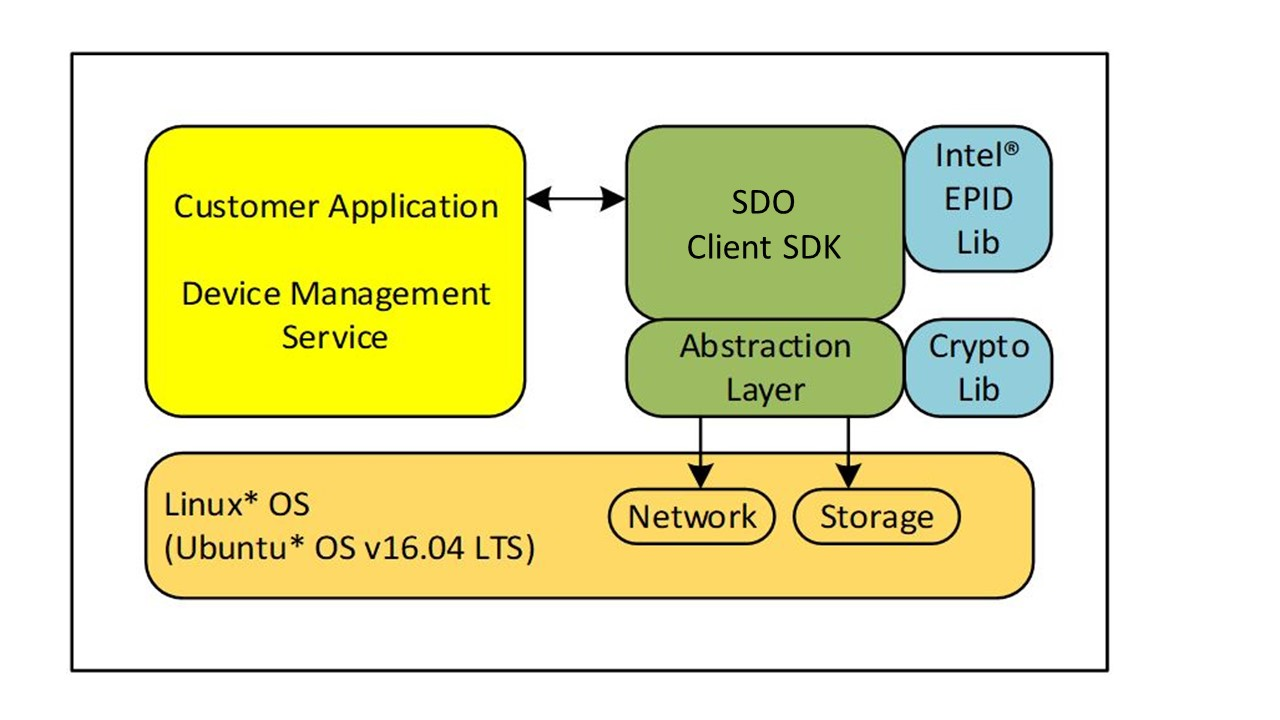
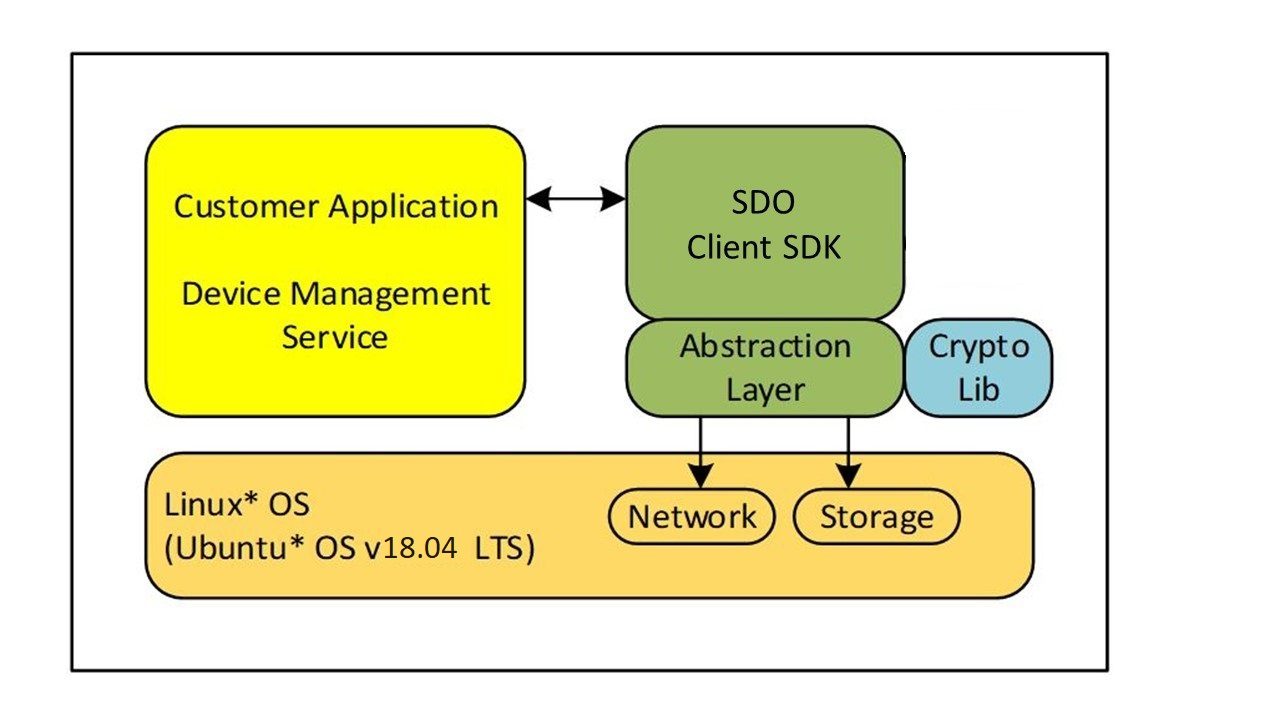
fix: correcting docs for 1.9 release (#39)

diff --git a/docs/client-sdk/client-sdk-reference-guide.md b/docs/client-sdk/client-sdk-reference-guide.md
@@ -6,7 +6,6 @@ In addition, the Client SDK is ported to the following Arm* platforms:
 1.	Nucleo* development board (NUCLEO-F429ZI) running STM32F429ZI ARM Cortex*-M4 MCU over Mbed* OS.  
 2.	NUCLEO-F767ZI development board running STM32F767ZI Arm* Cortex*-M7 MCU over Mbed* OS.  
 3.	WaRP7 development board running i.MX 7 series Arm Cortex-A7 MPU over Mbed Linux.  
-4.	Raspberry Pi* development board running Arm Cortex-A53 MPU over Raspbian OS.  
 
 The Client SDK is a reference implementation that can be used to onboard a device and then give control to the device application or IOT Platform Service. “Onboarding” means the process by which a device establishes its first trusted connection with an IOT Platform Service.  
 
@@ -51,7 +50,7 @@ It is assumed that the machine on which the SDK runs has access to the network. 
 The SDK will initiate connections to the following external ports, which must not be blocked by a firewall:
 
 -	8039: The SDK connects to the SDO Manufacturer Server on this port.
--	8041: The SDK connects to the SDO Rendezvous Server on this port.
+-	8040: The SDK connects to the SDO Rendezvous Server on this port.
 -	8042: The SDK connects to the SDO Owner Server on this port.
 
 For details on the Manufacturer Server, Rendezvous Server, and Owner Server refer to the Reference Documents.
@@ -121,13 +120,13 @@ If an error occurs after a module has been initialized, during the remainder of 
 The intent of PSI is described in the SDO Protocol specification. Basically, PSI provides the Owner Server with a way to inform a module what to expect during the next two service info sequences (such as, DSI and OSI). The module should use this information to prepare itself for the subsequent exchanges.
 
 PSI is an ASCII string containing one or more 2-tuple of the format 
-`[module-name][module-data]`. The SDK parses the PSI string and locates the module specified by module-name. If this module is not found, the SDK ignores it and continues with the next PSI touple in the string.
+`[module-name][module-data]`. The SDK parses the PSI string and locates the module specified by module-name. If this module is not found, the SDK ignores it and continues with the next PSI tuple in the string.
 
 The `[module-data]` is a key-value pair where the value is optional (depending on the key) and is encoded as `key~value` (the ‘~’ char is the delimiter). The SDK will parse this substring to extract the key and value.
 
-If the module is found, the SDK invokes the modules callback function with type `SDO_SI_SET_PSI` and passes the module-data to it in the sv parameter. The key is contained in `sv.key` and the value if present, is in `sv.value`. If no value is present, the `sv.value` will be `NULL`. The module is expected to process the key-value and return either success or failure. A failure response will cause the entire onboarding sequence to fail and the Application must retry it at a later time. In most cases the Owner Server will use PSI to allow the module to perform basic initialization and setup for the following DSI and OSI rounds in terms of allocating resources, and others.
+If the module is found, the SDK invokes the modules callback function with type `SDO_SI_SET_PSI` and passes the module-data to it in the sv parameter. The key is contained in `sv.key` and the value if present, is in `sv.value`. If no value is present, the `sv.value` will be `NULL`. The module is expected to process the key-value and return either success or failure. A failure response will cause the entire onboarding sequence to fail and the Application must retry it later. In most cases the Owner Server will use PSI to allow the module to perform basic initialization and setup for the following DSI and OSI rounds in terms of allocating resources, and others.
 
-From a format standpoint, both key and value are `NULL` terminated ASCII strings. The value may optionally contain base64 encoded binary data. A PSI string could contain multiple 2-touples with the same module-name. In this case, the SDK will invoke the same module multiple times, once for each occurrence of module-name in the PSI string. The corresponding key-value pairs will be passed in each of these invocations. The `count` parameter will act as an ‘index’ starting at 0 for the first invocation and incremented for subsequent invocations.
+From a format standpoint, both key and value are `NULL` terminated ASCII strings. The value may optionally contain base64 encoded binary data. A PSI string could contain multiple 2-tuples with the same module-name. In this case, the SDK will invoke the same module multiple times, once for each occurrence of module-name in the PSI string. The corresponding key-value pairs will be passed in each of these invocations. The `count` parameter will act as an ‘index’ starting at 0 for the first invocation and incremented for subsequent invocations.
 
 !!! note
 	The PSI is considered the module configuration data and is independent of the DSI (see next section), which is the device information. The number of PSI elements is hence decoupled from the number of DSI elements. If the module wishes to retain either the key of value parameters for later use, it must make a local copy of the contents. The pointers passed during the invocation will be invalid after the callback returns to the SDK.
@@ -140,11 +139,11 @@ DSI follows PSI. The module needs to determine in advance how many DSI key-value
 
 On completing the PSI round, the SDK queries each registered module for the number of DSI rounds it requires. This is done by invoking the modules callback with the `SDO_SI_GET_DSI_COUNT` type. The module is expected to return the number of DSI key-value pairs it requires in the `count` callback parameter.
 
-When the DSI round for a module begins, the SDK will call the modules callback with the `SDO_SI_GET_DSI` type. The *`count`* parameter will indicate the ‘index’ of the DSI key-value pair being requested by the SDK. The SDK uploads each key-value pair to the Owner Server in the same order. The module may choose to ignore the ‘index’ sent by the SDK but it is advisable for the module to return key-value data based on this index. This callback will be invoked as many times as specified by the module by the prior `SDO_SI_GET_DSI_COUNT` return value (the ‘index’ value will vary from 0 to `count-1`).
+When the DSI round for a module begins, the SDK will call the modules callback with the `SDO_SI_GET_DSI` type. The *`count`* parameter will indicate the ‘index’ of the DSI key-value pair being requested by the SDK. The SDK uploads each key-value pair to the Owner Server in the same order. The module may choose to ignore the ‘index’ sent by the SDK, but it is advisable for the module to return key-value data based on this index. This callback will be invoked as many times as specified by the module by the prior `SDO_SI_GET_DSI_COUNT` return value (the ‘index’ value will vary from 0 to `count-1`).
 
-Key-values are returned in the `sv.key` and `sv.value` parameter fields. The `sv.key` must strictly be an `NULL` terminated ASCII string. The `sv.value` is also a `NULL` terminated ASCII string but could also be a Base64 encoded binary value. It is assumed that the Owner Server knows how to interpret a particular key-value from a particular module. The module must include Base64 encoding capabilities if required.
+Key-values are returned in the `sv.key` and `sv.value` parameter fields. The `sv.key` must strictly be an `NULL` terminated ASCII string. The `sv.value` is also a `NULL` terminated ASCII string but could also be a Base64 encoded binary value. It is assumed that the Owner Server knows how to interpret a particular key-value from a module. The module must include Base64 encoding capabilities if required.
 
-The very first key-value returned by a module (‘index’ zero) must be an activation value indicating whether the module is active or not. The key value must be `“active”` and the value must be `“1”` if the module is active or `“0”` if the module is not active. If the module is not active, the Owner Server will not send and DSI messages to the module. This requires each module to have at least one DSI – that is, the count value returned for the `SDO_SI_GET_DSI_COUNT` callback type must be at least `1.` See the SDO Protocol Specification for more information on module activation and deactivation.
+The very first key-value returned by a module (‘index’ zero) must be an activation value indicating whether the module is active or not. The key value must be `“active”`, and the value must be `“1”` if the module is active or `“0”` if the module is not active. If the module is not active, the Owner Server will not send and DSI messages to the module. This requires each module to have at least one DSI – that is, the count value returned for the `SDO_SI_GET_DSI_COUNT` callback type must be at least `1.` See the SDO Protocol Specification for more information on module activation and deactivation.
 
 Note that DSI is one way – from device to Owner Server. The Owner Server cannot respond to any DSI message during this phase. It can however respond to a prior DSI message in the next, OSI phase.
 
@@ -153,7 +152,7 @@ OSI follows DSI. Unlike DSI, neither the SDK nor the module can determine in adv
 
 Received key-values are passed to the module in the `sv.key` and `sv.value` callback parameter fields. The `sv.key` must strictly be an `NULL` terminated ASCII string. The `sv.value` is also a NULL terminated ASCII string but could also be a Base64 encoded binary value. It is assumed that the module knows how to interpret the value for a particular key based on the key name. In addition to the sv parameter, the SDK will pass an ‘index’ of the OSI in the `count` parameter. The ‘index’ begins at 0 and increments for each OSI key-value pair received for the module.
 
-Corresponding to the activation message in DSI, the Owner Server could send a deactivation message to a module if it is not planning to use the module. The message will have a key of `“active”` and value of `“0”`. On receiving this message, a module may free allocated resources and effectively shutdown from an SDO perspective. Unlike the activation message, this message is optional and will only be sent if the Owner Server is not going to use the module. A module must expect to remain active unless it explicitly receives a deactivation message or it already indicated that is not active in the earlier DSI stage. See the SDO Protocol Specification for more information on module activation and deactivation.
+Corresponding to the activation message in DSI, the Owner Server could send a deactivation message to a module if it is not planning to use the module. The message will have a key of `“active”` and value of `“0”`. On receiving this message, a module may free allocated resources and effectively shutdown from an SDO perspective. Unlike the activation message, this message is optional and will only be sent if the Owner Server is not going to use the module. A module must expect to remain active unless it explicitly receives a deactivation message, or it already indicated that is not active in the earlier DSI stage. See the SDO Protocol Specification for more information on module activation and deactivation.
 
 If a module receives an OSI when it is in the deactivated state, it should return a status of `SDO SI_CONTENT_ERROR` indicating that the received element was not expected.
 The module is expected to process the key-value pair and return a result indicating if the operation was successful or failed. The module may return `SDO_SI_CONTENT_ERROR` or `SDO_SI_INTERNAL_ERROR` to differentiate between invalid value contents or a module run-time error. This information is reported to the Owner Server. The module must return `SDO_SI_SUCCESS` on successful completion.
@@ -166,7 +165,7 @@ When all service information rounds of all modules have completed successfully, 
 The SDK will not call into the module after this. The SDK will ignore the return value of this callback since no further failure is expected at this point.
 
 #### Module Errors
-If an error occurs during the service information phase, the TO2 protocol is considered to have failed and will be aborted. The Application will need to retry onboarding at a later time. A failure could occur for multiple reasons including failure of device/server interaction, failure of signature or hash verification, malformed messages and also if a module returns a failure while processing a PSI, DSI, or OSI command/request.
+If an error occurs during the service information phase, the TO2 protocol is considered to have failed and will be aborted. The Application will need to retry onboarding later. A failure could occur for multiple reasons including failure of device/server interaction, failure of signature or hash verification, malformed messages and if a module returns a failure while processing a PSI, DSI, or OSI command/request.
 
 On failure, all modules must clean up internal state and discard any configuration information they might have got from the Owner Server. Conversely, the Owner Server will also discard all data it might have received from modules.
 
@@ -183,14 +182,14 @@ Table 1.	Prerequisites
 
 |                                                  |                                                                                                                                                                                                                                                                                                                                                                                                                                                                                                                                                                                                                                                                                                                                                                                                                                                 |
 |--------------------------------------------------|-------------------------------------------------------------------------------------------------------------------------------------------------------------------------------------------------------------------------------------------------------------------------------------------------------------------------------------------------------------------------------------------------------------------------------------------------------------------------------------------------------------------------------------------------------------------------------------------------------------------------------------------------------------------------------------------------------------------------------------------------------------------------------------------------------------------------------------------------|
-|    Software                                      |    ·      Linux\* Ubuntu\* 16.04 / Ubuntu\* 18.04 using   OpenSSL\* 1.1.1f <br/>·      JDK11  <br/> ·      SDO release binaries package (for running test servers) <br/>     o The root directory of extracted binary package is referred to as <sdo_sdk_binaries> in subsequent sections. <br/>   ·      SDO Client SDK alpha-release binary package <br/>   o The root directory of extracted binary package is referred to as < SDOClientSDK> in subsequent sections. <br/>  ·      SDO Client SDK alpha-release sources package <br/>  o The root directory of extracted source code is referred to as < SDOClientSDK> in subsequent sections. <br/>  ·      Apache Maven\* (for building sample Java\* based test owner   service)   <br/>    Additional Ubuntu\* 16.04/18.04  prerequisites can be found in the   <releases source>/SDOClientSDK/README.md     |
+|    Software                                      |    ·      Linux\* Ubuntu\* 18.04 using   OpenSSL\* 1.1.1g <br/>·      JDK11  <br/> ·      SDO release binaries package (for running test servers) <br/>     o The root directory of extracted binary package is referred to as <sdo_sdk_binaries> in subsequent sections. <br/>   ·      SDO Client SDK alpha-release binary package <br/>   o The root directory of extracted binary package is referred to as < SDOClientSDK> in subsequent sections. <br/>  ·      SDO Client SDK alpha-release sources package <br/>  o The root directory of extracted source code is referred to as < SDOClientSDK> in subsequent sections. <br/>  ·      Apache Maven\* (for building sample Java\* based test owner   service)   <br/>    Additional Ubuntu\* 18.04  prerequisites can be found in the   <releases source>/SDOClientSDK/README.md     |
 |    Safestring   library                          |    Safestring library v1.0.0  <br/> ·          Download safestringlib from  https://github.com/intel/safestringlib  <br/> ·          `cd safestringlib` <br/>   ·          `mkdir obj` <br/>  ·          `make ` <br/>  ·          The   library file libsafestring.a will be created after make.                                                                                                                                                                                                                                                                                                                                                                                                                                                                                                                                                                                |
 |    Java\*                                         |    Set the $JAVA_HOME environment   variable.                                                                                                                                                                                                                                                                                                                                                                                                                                                                                                                                                                                                                                                                                                                                                                                                   |123456
 
 ### Run the Binary Package
 The following subsections provide the steps to run the binary package.
 
-#### Get the Device Private Key (ECDSA P-256 based)
+#### Get the Device Private Key (ECDSA based)
 The SDK requires a device Private Key as input for device attestation process (to prove itself to Rendezvous or Owner Server during TO1 or TO2 protocol). The key could be based on ECDSA (on curve P-256/P-384) based on the device attestation method being used on the field. This key must be stored in a specific file and is read by the SDK on startup. 
 
 _**For ECDSA (P-256) based device-attestation method:**_  
@@ -213,13 +212,14 @@ _**Terminal #1: Start All-in-one Demo**_
 This section describes about running the SDO reference device (based on Linux* reference implementation) only. 
 Going forward, <sdo-client-sdk-bindir> refers to the location where the SDO Client application 'linux-client' and the related 'data' folder are placed.
 
-!!! note
-    Running the device the first time completes DI. Running the device the second time on boards the device. Between subsequent device runs, it is assumed that ownership proxy is correctly extended and TO0 is successfully completed.
+!!! note:- </b>
+    Running the device for the first time completes DI.
+	Running the device for the second time on boards the device. Between subsequent device runs, it is assumed that ownership voucher is correctly extended and TO0 is successfully completed.
 
 _**Terminal 2: Run the device for device initialization:**_  
   
     $ cd <sdo-client-sdk-bindir>
-    $ ./linux-client`
+    $ ./linux-client
 
 ```    
 $ ./linux-client
@@ -232,7 +232,7 @@ This step completes Device Initialization.
 _**Run the device again to onboard the device:**_ 
 
 	$ cd <sdo-client-sdk-bindir>
-	$ ./linux-client`
+	$ ./linux-client
 
 ```
 $ ./linux-client
@@ -251,8 +251,8 @@ Follow these steps to build the source package:
 
 1.	Make sure you have completed the pre-requisites. Download source code from [Github repository](https://github.com/secure-device-onboard/client-sdk).
 2.	Follow the instructions provided in the [README](https://github.com/secure-device-onboard/client-sdk/blob/master/README.md) to build the source code by setting the necessary environment variables.
-3.	The SDO Client binary is generated either in build/linux/debug or build/linux/release folder, depending on the build mode. Ensure to copy them to the root folder before proceeding with the next steps.
-4.	Run the PRI Servers
+3.	The SDO Client binary is generated in build/ folder. Ensure to copy them to the root folder before proceeding with the next steps.
+4.	Run the SCT, IOT platform SDK and RV servers.
 5.	Complete Device Initialization 
 6.	Complete Device Onboarding
 
@@ -298,6 +298,7 @@ $ ./linux-client
 The following are the known issues:  
 
 •	The HAL implementation provided in this release is for reference only and not intended for production. It does not provide the level of security required by industry standards for a fully secure production environment.
+
 •	‘sdo_sys’ module source within 'device_modules' folder is an example code demonstrating SDO device module implementation for reference purpose only. This code is not written following secure production level coding and checks. This sample code must not to be used as it is.
 
 The following are the known limitations:  

diff --git a/docs/client-sdk/client-sdk-api-reference.md b/docs/client-sdk/client-sdk-api-reference.md
@@ -206,7 +206,7 @@ _**Parameters**_
 
 **type**  
 This value specifies the type of error that occurred. It will be one of the following values (other `sdoSdkStatus` values are not used here):  
-* `SDO_ERROR`: This indicates an unrecoverable error occurred. The SDK will continue with protocol restart for these types of errors but it is unlikely that the operation will succeed. It is advisable to abort the operation and retry at a later time.  
+* `SDO_ERROR`: This indicates an unrecoverable error occurred. The SDK will continue with protocol restart for these types of errors but it is unlikely that the operation will succeed. It is advisable to abort the operation and retry later.
 * `SDO_WARNING`: This indicates that a transient error occurred. The SDK will continue with protocol restart, which might fix the problem. It is advisable that the Application allows the restart to take place.  
 **errorCode**  
 This value indicates details of the error that occurred. See description in SDO SDK Error Values.  
@@ -216,7 +216,7 @@ _**Return Value**_
 The return value could be one of the following constants (***Note:*** These values are constants that are defined in the SDO SDK header file):
 
 * `SDO_SUCCESS`: Indicates that the error was handled and the SDK should continue with its recovery or restart as required.  
-* `SDO_ABORT`: This causes the SDK to terminate protocol processing and return to the caller (such as, the `sdoSdkRun()` API returns). The Application can re-invoke this API at a later time to re-initiate the SDO onboarding process.  
+* `SDO_ABORT`: This causes the SDK to terminate protocol processing and return to the caller (such as, the `sdoSdkRun()` API returns). The Application can re-invoke this API later to re-initiate the SDO onboarding process.
 
 
 ## SDK API Functions  
@@ -262,7 +262,7 @@ This function returns a value of type sdoSdkDeviceStatus as described in SDO Dev
 
 ### Execute SDO SDK Onboarding Protocol
 The Application invokes this API to begin the onboarding process that is, TO1. The onboarding process has completed successfully when this function returns `SDO_SUCCESS`. If this API returns an error, the Application may retry the onboarding process by calling this API again immediately or after a sleep/reset cycle as determined by the use case.
-The SDK will invoke the Application error callback if an error occurs in this phase. Additionally, module-specific callbacks will be invoked when Service Information is received from the Owner Server during the course of the TO2 stage. These callbacks are invoked in the context of the callers thread and the callbacks must not call any SDK APIs since the SDK is not yet re-entrant. 
+The SDK will invoke the Application error callback if an error occurs in this phase. Additionally, module-specific callbacks will be invoked when Service Information is received from the Owner Server during the TO2 stage. These callbacks are invoked in the context of the callers thread and the callbacks must not call any SDK APIs since the SDK is not yet re-entrant. 
 
 _**Syntax**_  
 `sdoSdkStatus sdoSdkRun(void);`  

diff --git a/docs/reference.md b/docs/reference.md
@@ -149,7 +149,7 @@ Protocol Reference Implementation | <https://github.com/secure-device-onboard/pr
 | TO0                                                 | Acronym - Transfer of Ownership, step 0: establishes a connection with the Owner to the Rendezvous server and creates trust that it has ownership of an Ownership Voucher so Service Info can be transmitted. |
 | TO0Client                                           | A utility program that runs the TO0 protocol. It takes an Ownership Voucher as input, runs the TO0 protocol, resulting in the OP being stored in the Rendezvous server. |
 | TO1                                                 | Acronym - Transfer of Ownership, step 1: Establishes a connection from a Device to the Rendezvous server. |
-| TO2                                                 | Acronym - Transfer of Ownership, step 2: Establishes a trusted, secure connection between the Device and the final Owner and enables the Owner to configure the device as per the requirement from DMS. |
+| TO2                                                 | Acronym - Transfer of Ownership, step 2: Establishes a trusted, secure connection between the Device and the final Owner and enables the Owner to configure the device as per the requirement from SDO IOT Platform SDK. |
 | TOFU                                                | Acronym - Trust On First Use |
 | TPM                                                 | Acronym - Trusted Platform Module |
 | URI                                                 | Uniform Resource Identifier (URI) |
